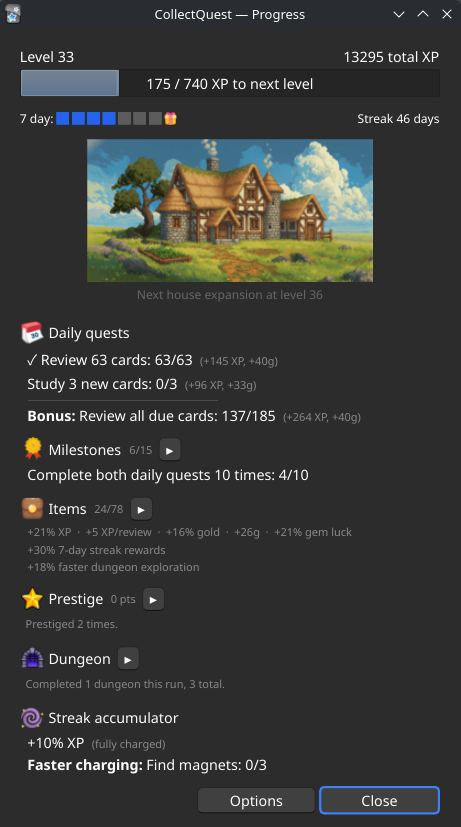
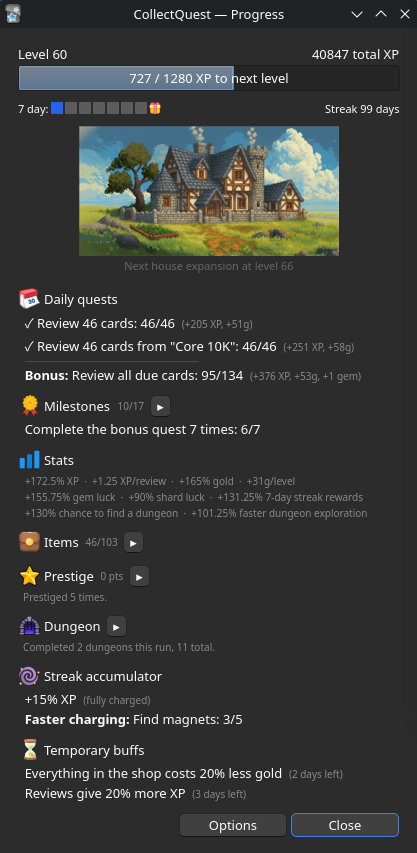
Restock fee resets each day

diff --git a/src/shop.py b/src/shop.py
@@ -49,7 +49,7 @@ SLOT_WEIGHT_GEM = {"random": 5, "specific": 4, "most_needed": 4}
 SLOT_WEIGHT_SHARDS = 13
 SLOT_WEIGHT_MAGNET = 2
 
-# Refresh (unlocked by owning a key): 1 free per day (2 with Golden key), then 15g first paid, +15g per use.
+# Refresh (unlocked by owning a key): 1 free per day (2 with Golden key), then 15g first paid, +15g per use that day.
 REFRESH_COST_BASE = 15
 REFRESH_COST_INCREMENT = 15
 
@@ -297,8 +297,13 @@ def has_gem_trade(data: dict[str, Any]) -> bool:
     return PRISM_ID in data.get("owned_collectibles", [])
 
 
+def _count_on(data: dict[str, Any], count_key: str, date_key: str, today: str) -> int:
+    """A daily counter's value, or 0 once its date stamp is from another day."""
+    return int(data.get(count_key, 0) or 0) if data.get(date_key) == today else 0
+
+
 def _gem_trades_today(data: dict[str, Any], today: str) -> int:
-    return int(data.get("gem_trade_uses", 0) or 0) if data.get("gem_trade_date") == today else 0
+    return _count_on(data, "gem_trade_uses", "gem_trade_date", today)
 
 
 def gem_trade_cost(data: dict[str, Any]) -> int:
@@ -988,27 +993,38 @@ def has_refresh_unlocked(data: dict[str, Any]) -> bool:
     return can_refresh_shop(owned)
 
 
-def has_free_refresh_available(data: dict[str, Any]) -> bool:
-    """True if player has free refresh(es) left today. Any key: 1 free/day; Golden key: 2 free/day."""
-    if not has_refresh_unlocked(data):
-        return False
-    today = _today_str()
-    last_date = data.get("shop_last_free_refresh_date", "")
-    used_today = data.get("shop_free_refreshes_used_today", 0) if (last_date == today) else 0
+def _free_refreshes_today(data: dict[str, Any], today: str) -> int:
+    return _count_on(data, "shop_free_refreshes_used_today", "shop_last_free_refresh_date", today)
+
+
+def _paid_refreshes_today(data: dict[str, Any], today: str) -> int:
+    return _count_on(data, "shop_refresh_uses", "shop_refresh_date", today)
+
+
+def _free_refresh_left(data: dict[str, Any], today: str) -> bool:
+    """Any key: 1 free/day; Golden key: 2 free/day."""
     free_per_day = 2 if has_gold_key(data.get("owned_collectibles", [])) else 1
-    return used_today < free_per_day
+    return _free_refreshes_today(data, today) < free_per_day
+
+
+def _paid_refresh_cost(data: dict[str, Any], today: str) -> int:
+    """15g rising by 15g per paid use that day, then the discount buff."""
+    uses = _paid_refreshes_today(data, today)
+    return discounted_gold(data, REFRESH_COST_BASE + REFRESH_COST_INCREMENT * uses)
+
+
+def has_free_refresh_available(data: dict[str, Any]) -> bool:
+    """True if player owns a key and has free refresh(es) left today."""
+    return has_refresh_unlocked(data) and _free_refresh_left(data, _today_str())
 
 
 def get_refresh_cost(data: dict[str, Any]) -> int:
     """Gold cost of the next refresh: 0 if a free one is left today or refresh isn't unlocked, else
-    15g rising by 15g per use."""
+    15g rising by 15g per paid use that day."""
     if not has_refresh_unlocked(data):
         return 0
-    if has_free_refresh_available(data):
-        return 0
-    # Falls through to the escalating price below, which the discount then applies to.
-    uses = data.get("shop_refresh_uses", 0)
-    return discounted_gold(data, REFRESH_COST_BASE + REFRESH_COST_INCREMENT * uses)
+    today = _today_str()
+    return 0 if _free_refresh_left(data, today) else _paid_refresh_cost(data, today)
 
 
 def refresh_shop(data: dict[str, Any], level: int) -> bool:
@@ -1016,21 +1032,21 @@ def refresh_shop(data: dict[str, Any], level: int) -> bool:
     left (1/day, 2 with the Golden key), else pays refresh_cost. Returns True if refreshed."""
     if not has_refresh_unlocked(data):
         return False
-    is_free = has_free_refresh_available(data)
-    cost = 0 if is_free else get_refresh_cost(data)
+    # One day for the whole click, so a rollover mid-way can't price and stamp different days.
+    today = _today_str()
+    is_free = _free_refresh_left(data, today)
+    cost = 0 if is_free else _paid_refresh_cost(data, today)
     money = data.get("money", 0)
     if not is_free and money < cost:
         return False
     out = _restock(data, level)
-    today = _today_str()
     if is_free:
-        if data.get("shop_last_free_refresh_date", "") != today:
-            data["shop_free_refreshes_used_today"] = 0
+        data["shop_free_refreshes_used_today"] = _free_refreshes_today(data, today) + 1
         data["shop_last_free_refresh_date"] = today
-        data["shop_free_refreshes_used_today"] = data.get("shop_free_refreshes_used_today", 0) + 1
     else:
         data["money"] = money - cost
-        data["shop_refresh_uses"] = data.get("shop_refresh_uses", 0) + 1
+        data["shop_refresh_uses"] = _paid_refreshes_today(data, today) + 1
+        data["shop_refresh_date"] = today
     data["shop_daily_slots"] = out
     data["shop_last_refresh_time"] = _now_timestamp()
     return True

diff --git a/tests/shop/test_shop_slots.py b/tests/shop/test_shop_slots.py
@@ -1,7 +1,7 @@
 """
 Pin the shop slot draw: each offer type's weight, the lighter ones still filling what items can't,
 and the Magnet drawn from the pool like any other, one purchase a day. Also what the discount buff
-charges.
+charges, and paid restocks going back to 15g each day.
 Exit 1 = a check failed.
 
     python3 tests/shop/test_shop_slots.py
@@ -203,6 +203,36 @@ milestones.get_state(d)["active_buffs"] = [{"id": milestones.BUFF_SHOP_DISCOUNT,
 check("a 50g Shard costs 38", shop.slot_cost(d, {"cost": shop.SHARD_COST_GOLD}) == 38)
 check("a 100g item costs 75", shop.effective_cost_gold({"cost_gold": 100}, data=d) == 75)
 check("never below 1g", shop.discounted_gold(d, 1) == 1)
+
+print("\npaid restocks, 15g rising by 15g, back to 15g the next day")
+day = ["2026-11-19"]
+shop._today_str = lambda: day[0]
+d = storage._default_state()
+d["owned_collectibles"] = ["key_bronze"]
+d["money"] = 1000
+check("first restock of the day is free", shop.get_refresh_cost(d) == 0 and shop.refresh_shop(d, 999))
+costs = []
+for _ in range(3):
+    costs.append(shop.get_refresh_cost(d))
+    shop.refresh_shop(d, 999)
+check("then 15, 30, 45", costs == [15, 30, 45], str(costs))
+check("gold charged to match", d["money"] == 1000 - 90, str(d["money"]))
+day[0] = "2026-11-20"
+check("next day, free again", shop.get_refresh_cost(d) == 0 and shop.refresh_shop(d, 999))
+check("then 15 again", shop.get_refresh_cost(d) == 15, str(shop.get_refresh_cost(d)))
+d = storage._default_state()
+d.update(owned_collectibles=["key_bronze"], shop_refresh_uses=2, shop_last_free_refresh_date=day[0],
+         shop_free_refreshes_used_today=1)
+check("an old save's lifetime count is ignored", shop.get_refresh_cost(d) == 15, str(shop.get_refresh_cost(d)))
+d = storage._default_state()
+d.update(owned_collectibles=["key_bronze", "key_gold"], money=1000)
+free = [shop.get_refresh_cost(d) == 0 and shop.refresh_shop(d, 999) for _ in range(2)]
+check("Golden key: two free, then 15", all(free) and shop.get_refresh_cost(d) == 15, str(shop.get_refresh_cost(d)))
+shop.refresh_shop(d, 999)
+milestones.get_state(d)["active_buffs"] = [{"id": milestones.BUFF_SHOP_DISCOUNT, "started_epoch": 1}]
+check("discount applies to the daily price: 30g costs 23", shop.get_refresh_cost(d) == 23, str(shop.get_refresh_cost(d)))
+check("and that is what's charged", shop.refresh_shop(d, 999) and d["money"] == 1000 - 15 - 23, str(d["money"]))
+shop._today_str = real_today_str
 
 print()
 if FAILS:

diff --git a/src/storage.py b/src/storage.py
@@ -244,7 +244,8 @@ def _default_state() -> dict[str, Any]:
         "credited_revlog_ids": [],  # revlog ids credited on that day
         "shop_daily_slots": [],  # list of 3 slots: {"type": "collectible", "id": cid} or {"type": "gem", ...}
         "shop_last_refresh_time": 0,  # Unix timestamp of last shop refresh (see get_refresh_interval)
-        "shop_refresh_uses": 0,  # total refreshes used (cost = 15 + 15*this)
+        "shop_refresh_date": "",  # YYYY-MM-DD the paid restocks below were made
+        "shop_refresh_uses": 0,  # paid restocks that day (cost = 15 + 15*this)
         "shop_gate_date": "",  # YYYY-MM-DD; 10 reviews needed per day to open shop
         "gem_trade_date": "",  # YYYY-MM-DD the trades below were made (Prism)
         "gem_trade_uses": 0,  # trades made that day; each costs one gem more

diff --git a/src/ui/shop.py b/src/ui/shop.py
@@ -284,7 +284,7 @@ def build_shop_content_widget(
                 tooltip("Own a key (Bronze, Silver, or Golden) to restock the shop.")
             else:
                 cost = shop_mod.get_refresh_cost(data)
-                tooltip(f"Need {cost}g to restock (15g first, +15g per use).")
+                tooltip(f"Need {cost}g to restock (15g first each day, +15g per use).")
             return
         storage.save(data)
         # No confirmation tooltip: the slots visibly change.

diff --git a/wiki.md b/wiki.md
@@ -145,7 +145,7 @@ other offers fill the remaining slots.
 - **Automatic restock** happens every 4 hours for everyone, with no key needed. A Silver key
   halves that to every 2 hours. An update of the add-on also restocks the shop.
 - **Manual restock** needs at least a Bronze key. That gives you one free restock a day (two with the
-  Golden key), after which each costs 15 gold, rising by 15 every time.
+  Golden key), after which each costs 15 gold, rising by 15 every time until the next day.
 - **Trading for XP** opens for each currency once it has nothing left to buy, at any level. Once you
   own every item sold for gold, you can trade all your gold for XP at 3 XP per gold piece. Once you
   own every item crafting can make, you can trade all your gems for XP at 90 XP each. Gems stay on
@@ -319,7 +319,7 @@ in order.
 
 | Key | Level | How to get it | What it does |
 |---|---|---|---|
-| Bronze | 12 | 120 gold, crafting, or a [prestige unlock](#prestige) | Unlocks manual restocking: 1 free a day, then 15 gold, rising by 15 each time |
+| Bronze | 12 | 120 gold, crafting, or a [prestige unlock](#prestige) | Unlocks manual restocking: 1 free a day, then 15 gold, rising by 15 each time that day |
 | Silver | 22 | Crafting, requiring Bronze, or a [prestige unlock](#prestige) | Shop restocks by itself every 2 hours instead of 4 |
 | Golden | 45 | Crafting, requiring Silver | 2 free manual restocks a day instead of 1 |
 
